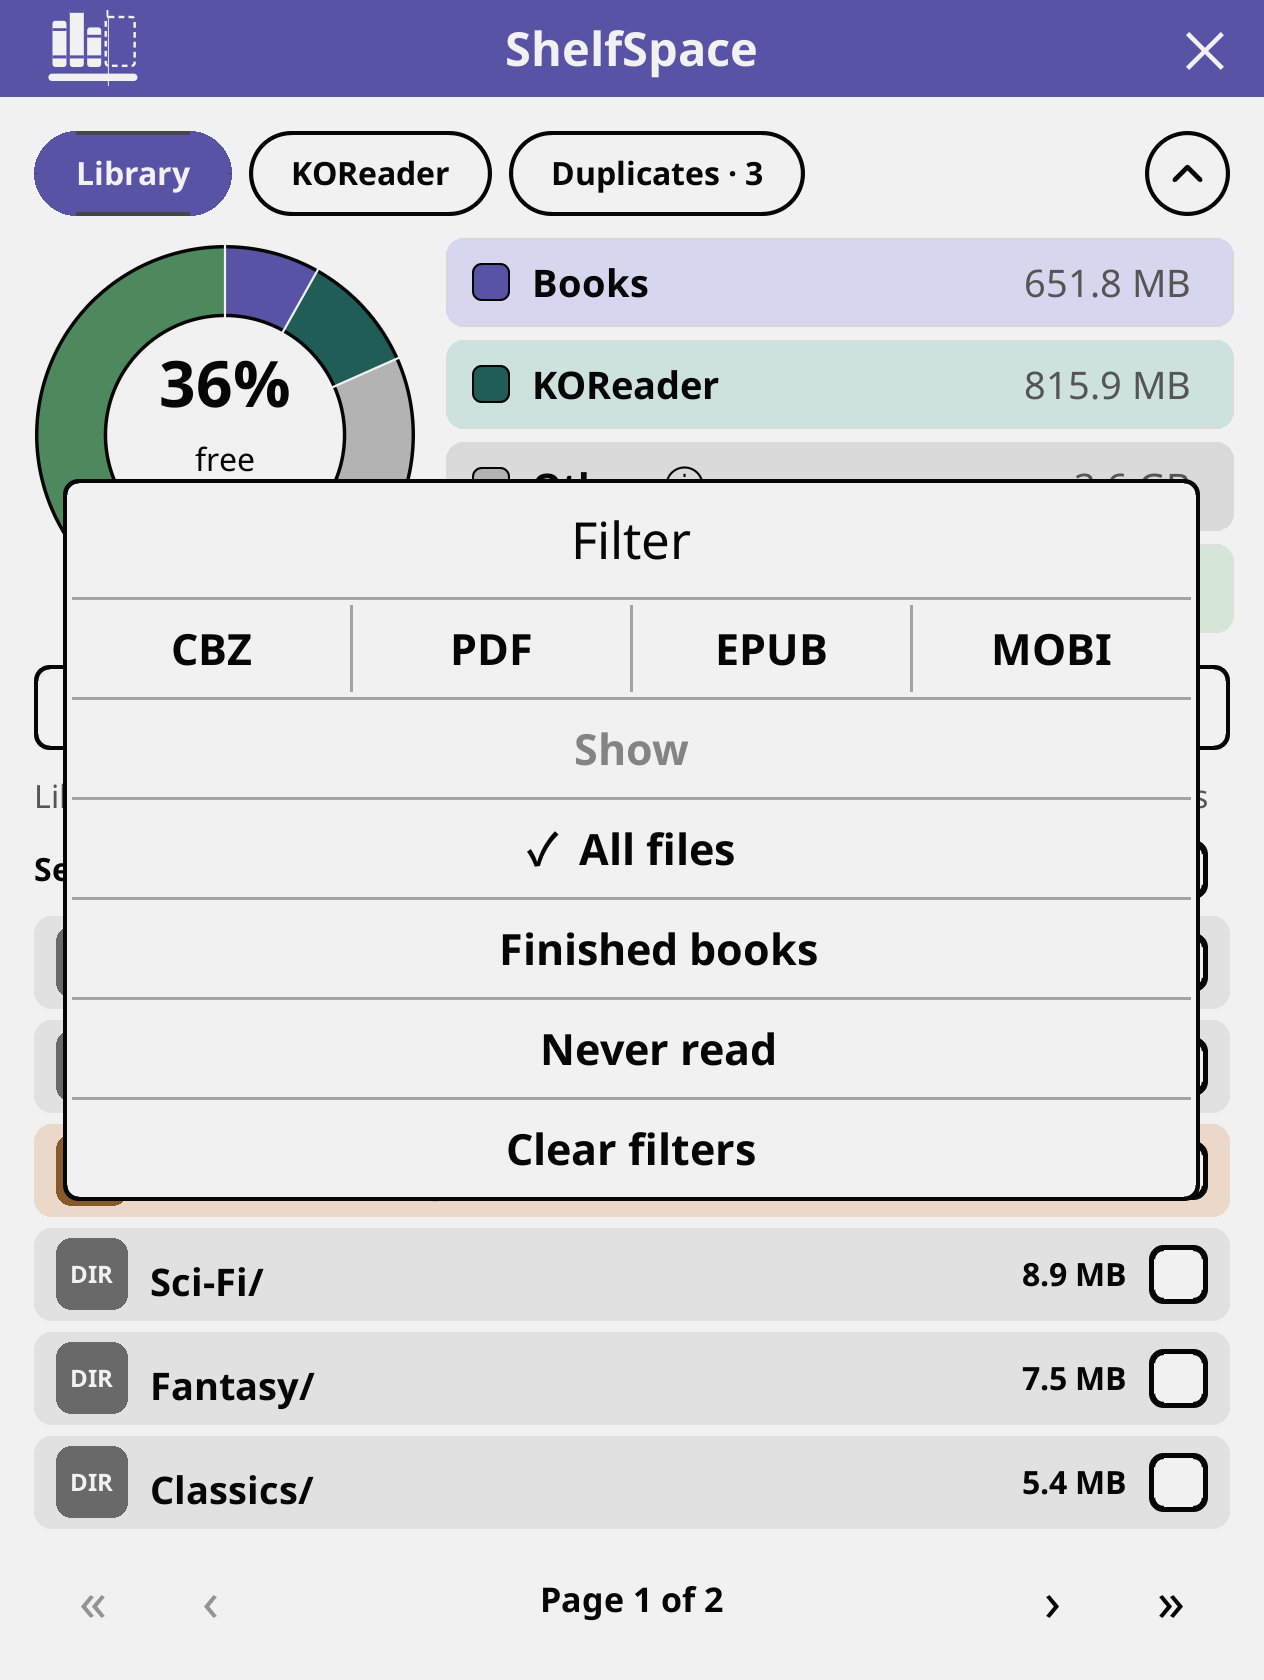
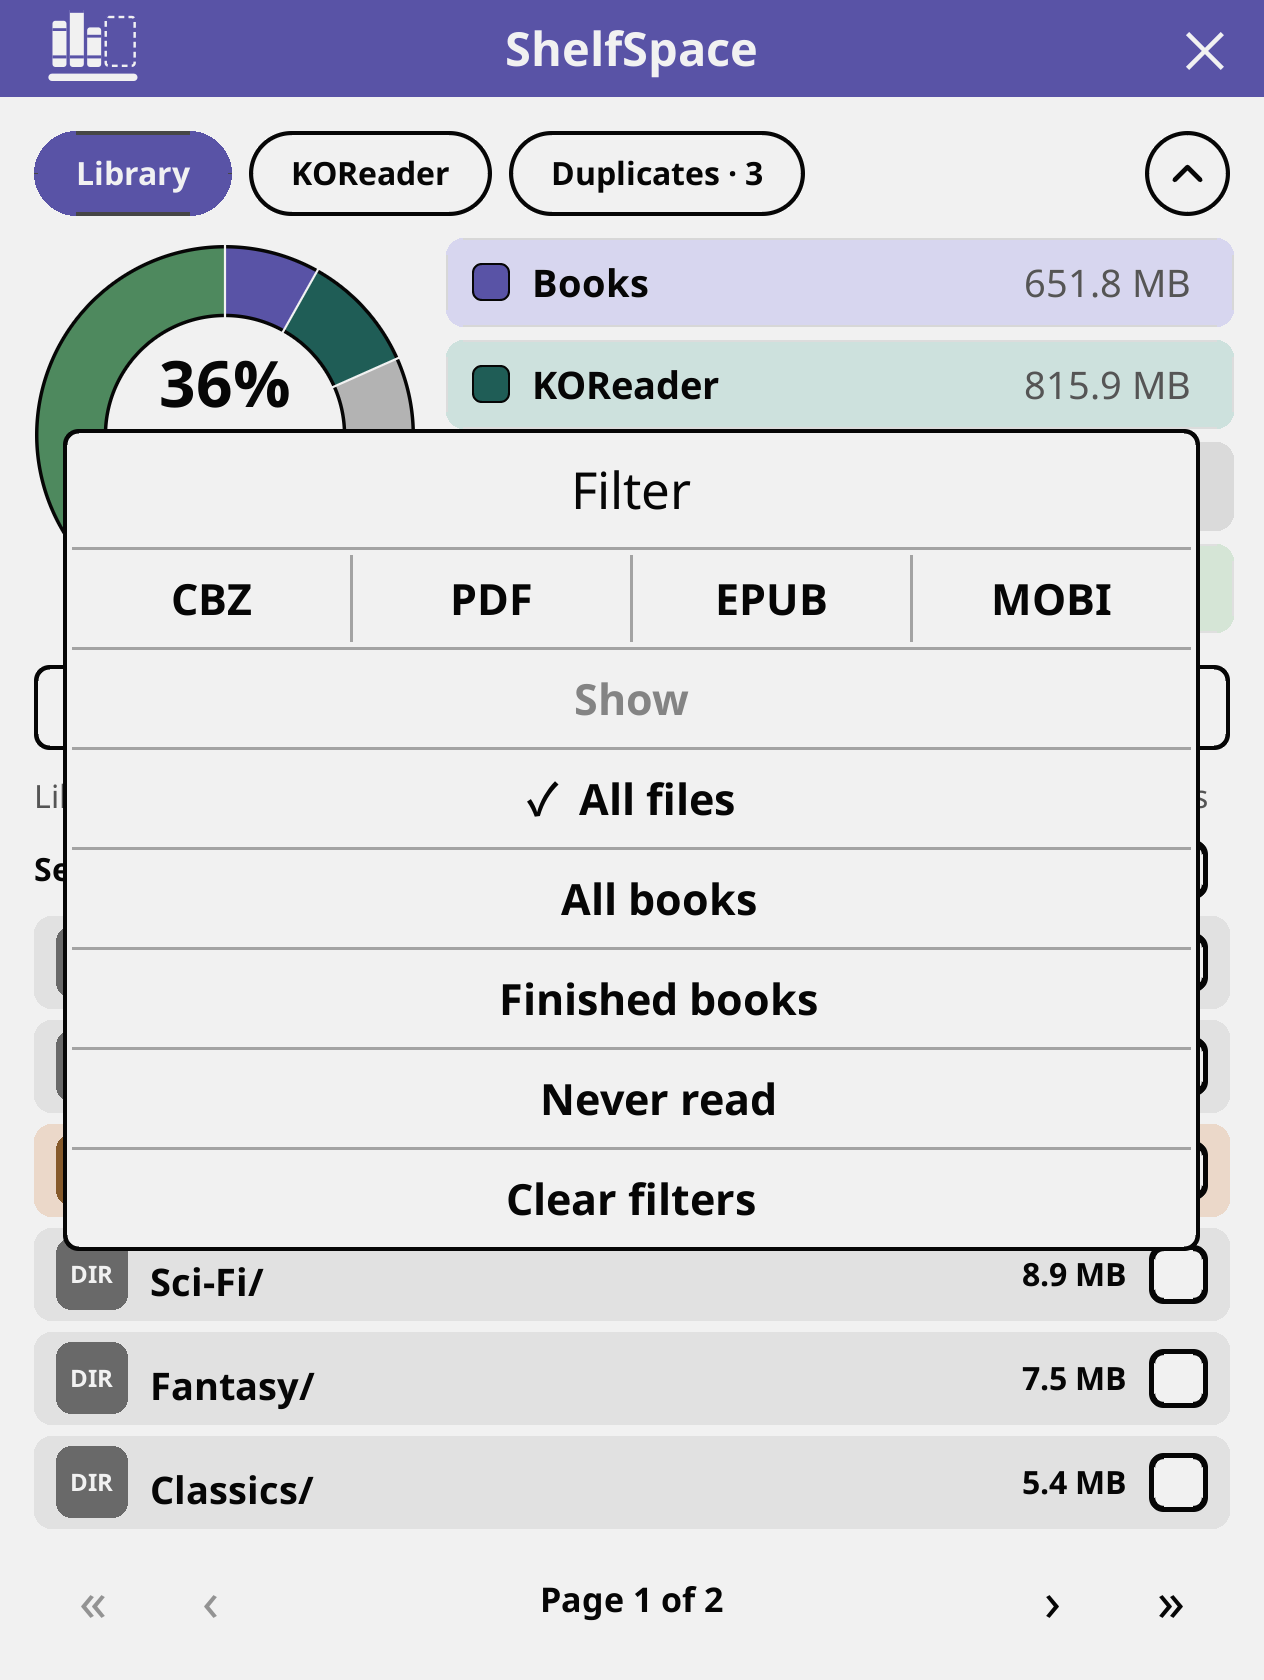
feat: add All books to Filter › Show, the way into every book since the legend stopped being tappable

diff --git a/README.md b/README.md
@@ -55,7 +55,7 @@ Under it, your files, largest first. Each row has a tile for its type, a colour 
 
 - **Open things.** Tap a folder to go in; the first row in a folder is `../`, to go back up. Tap a file, or press and hold any row, for its card: type, size, where it is, when it changed, when you last opened it and your progress, with **Open** and **Book info**. For the book you have open there is **Close book**, so you can delete it.
 - **Search** (the magnifier) looks by name through the folder you are in and everything under it. Once you have searched, the button shows your search and tapping it clears it.
-- **Filter** by file type, or by **Show**: books you have finished, or never opened, wherever they are. What is narrowing the list appears as chips with a ✕, each undoing just that. When nothing matches, you are told why and given a button that undoes it.
+- **Filter** by file type, or by **Show**: every book in the library, the books you have finished, or the ones never opened, wherever they are. What is narrowing the list appears as chips with a ✕, each undoing just that. When nothing matches, you are told why and given a button that undoes it.
 - **Sort** by size, name, date or last opened; the arrow beside it flips the direction.
 
 #### Deleting
